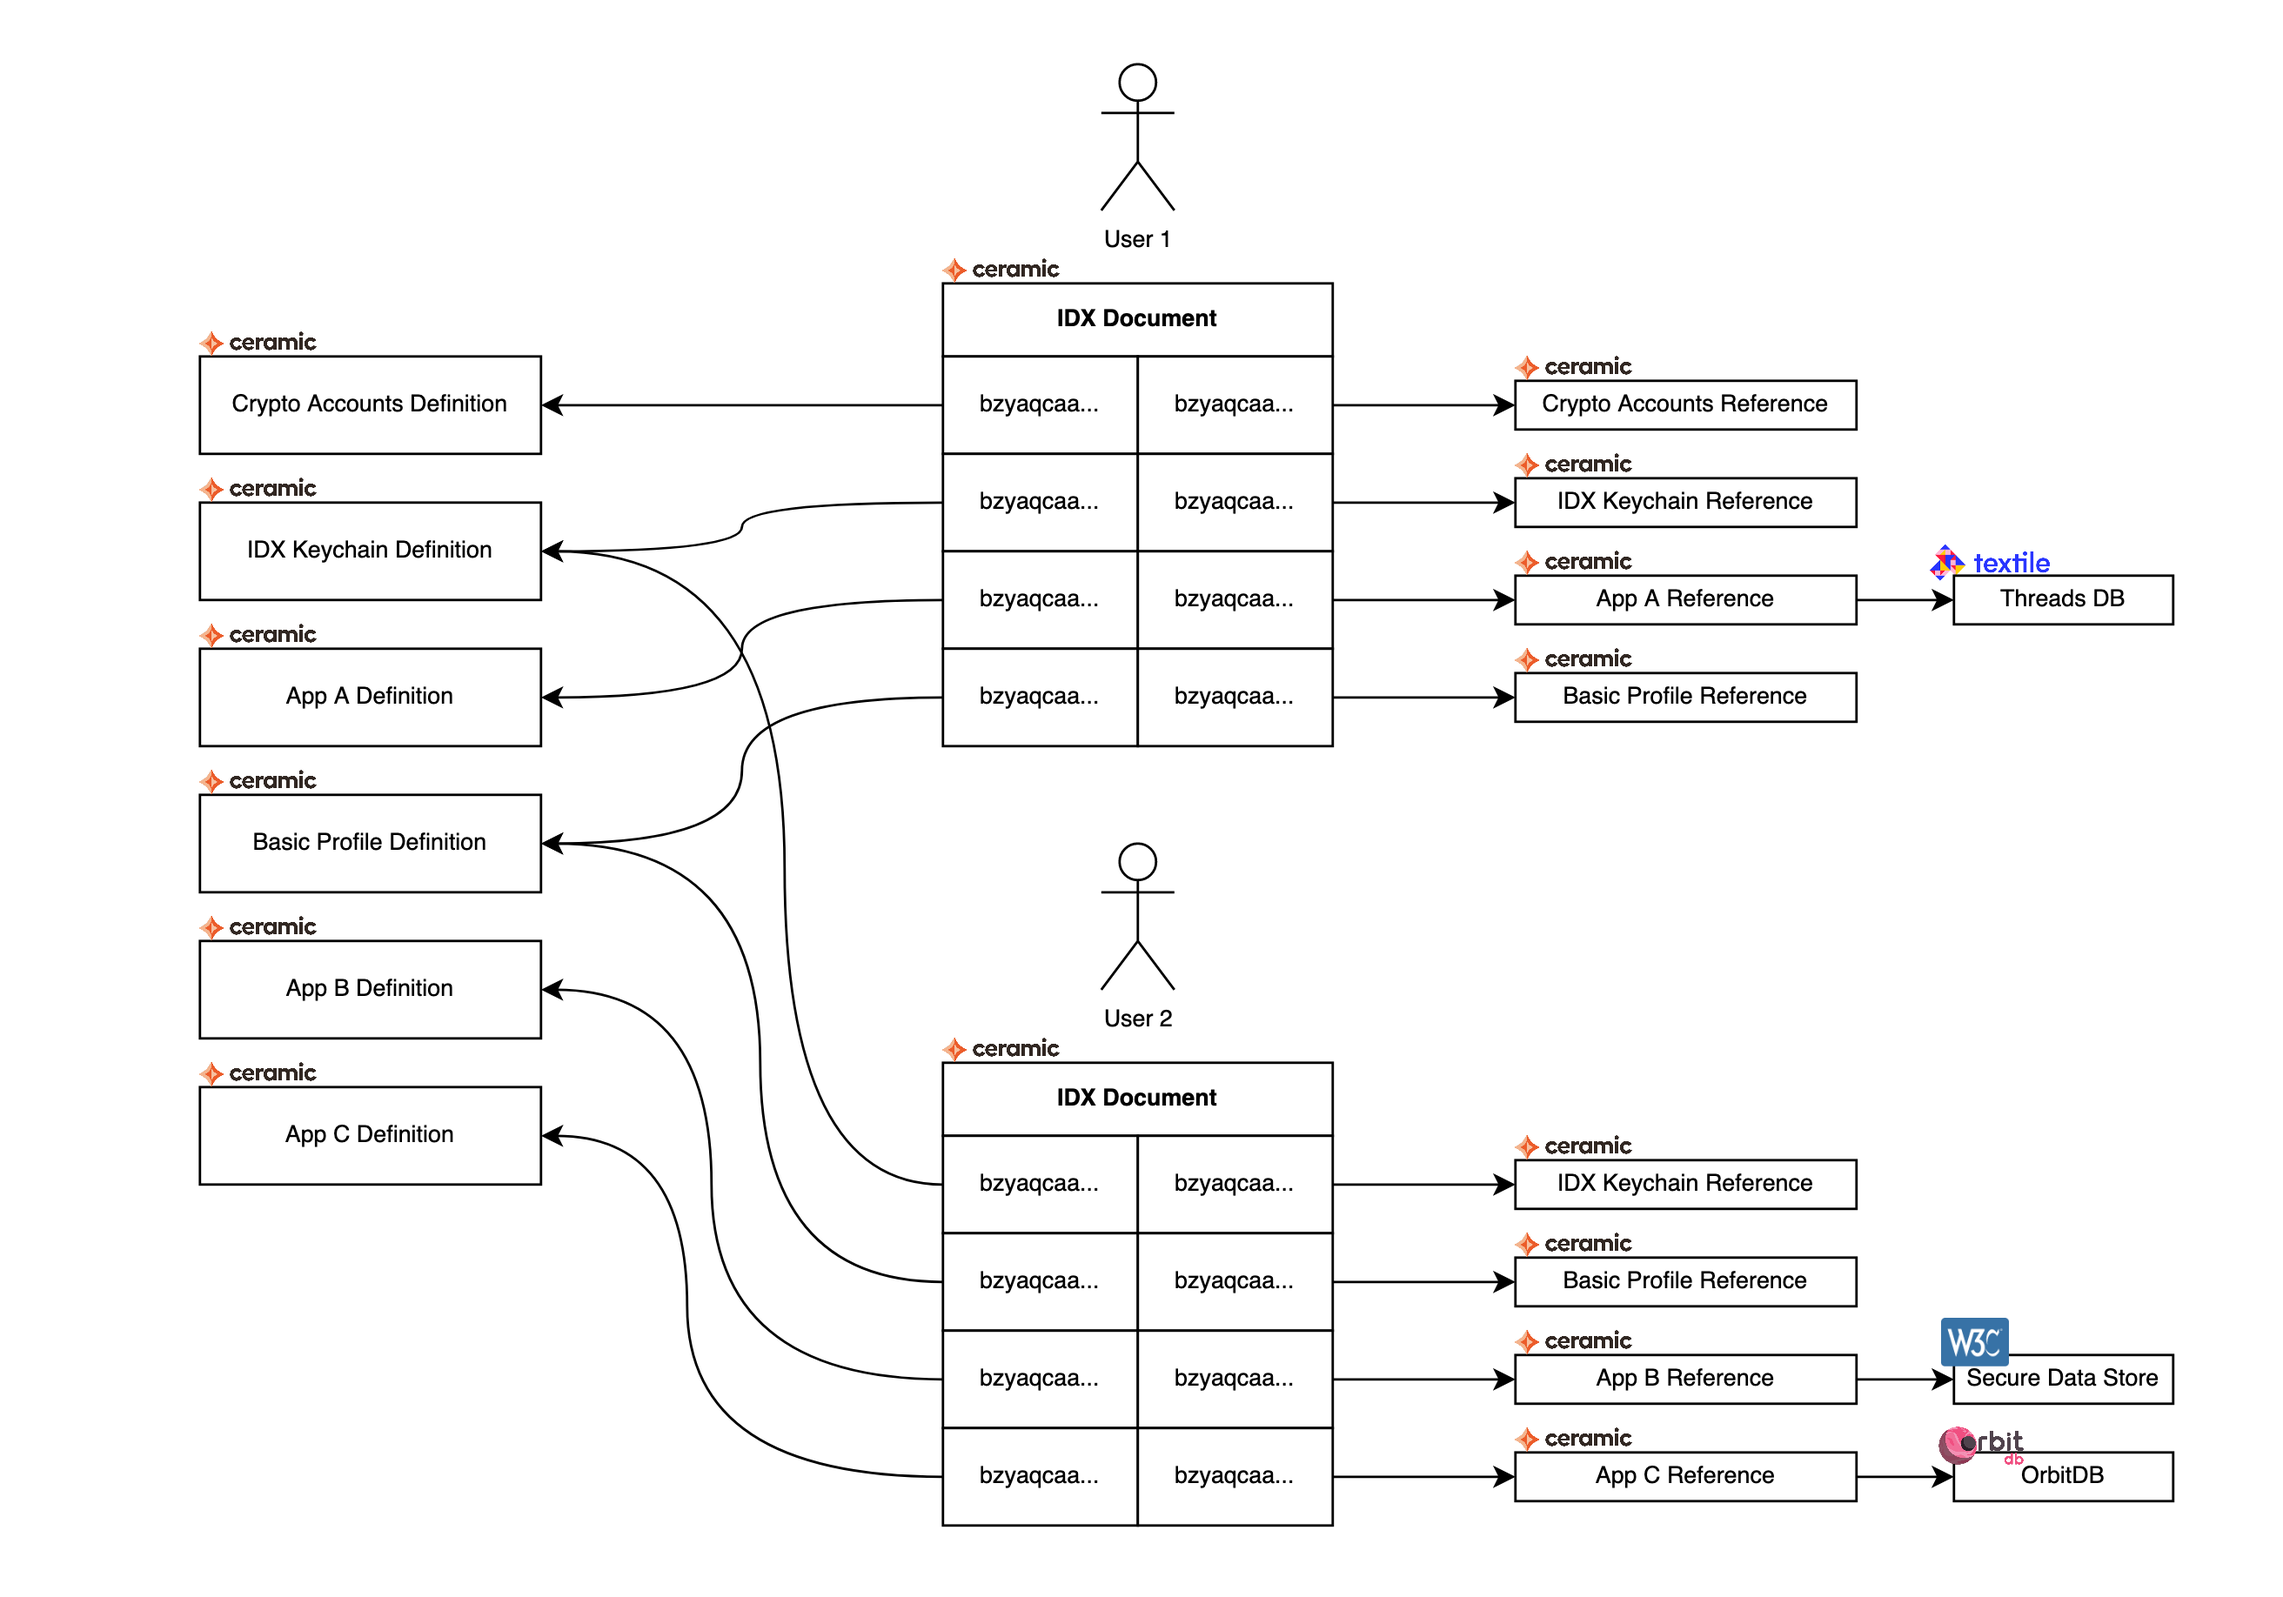
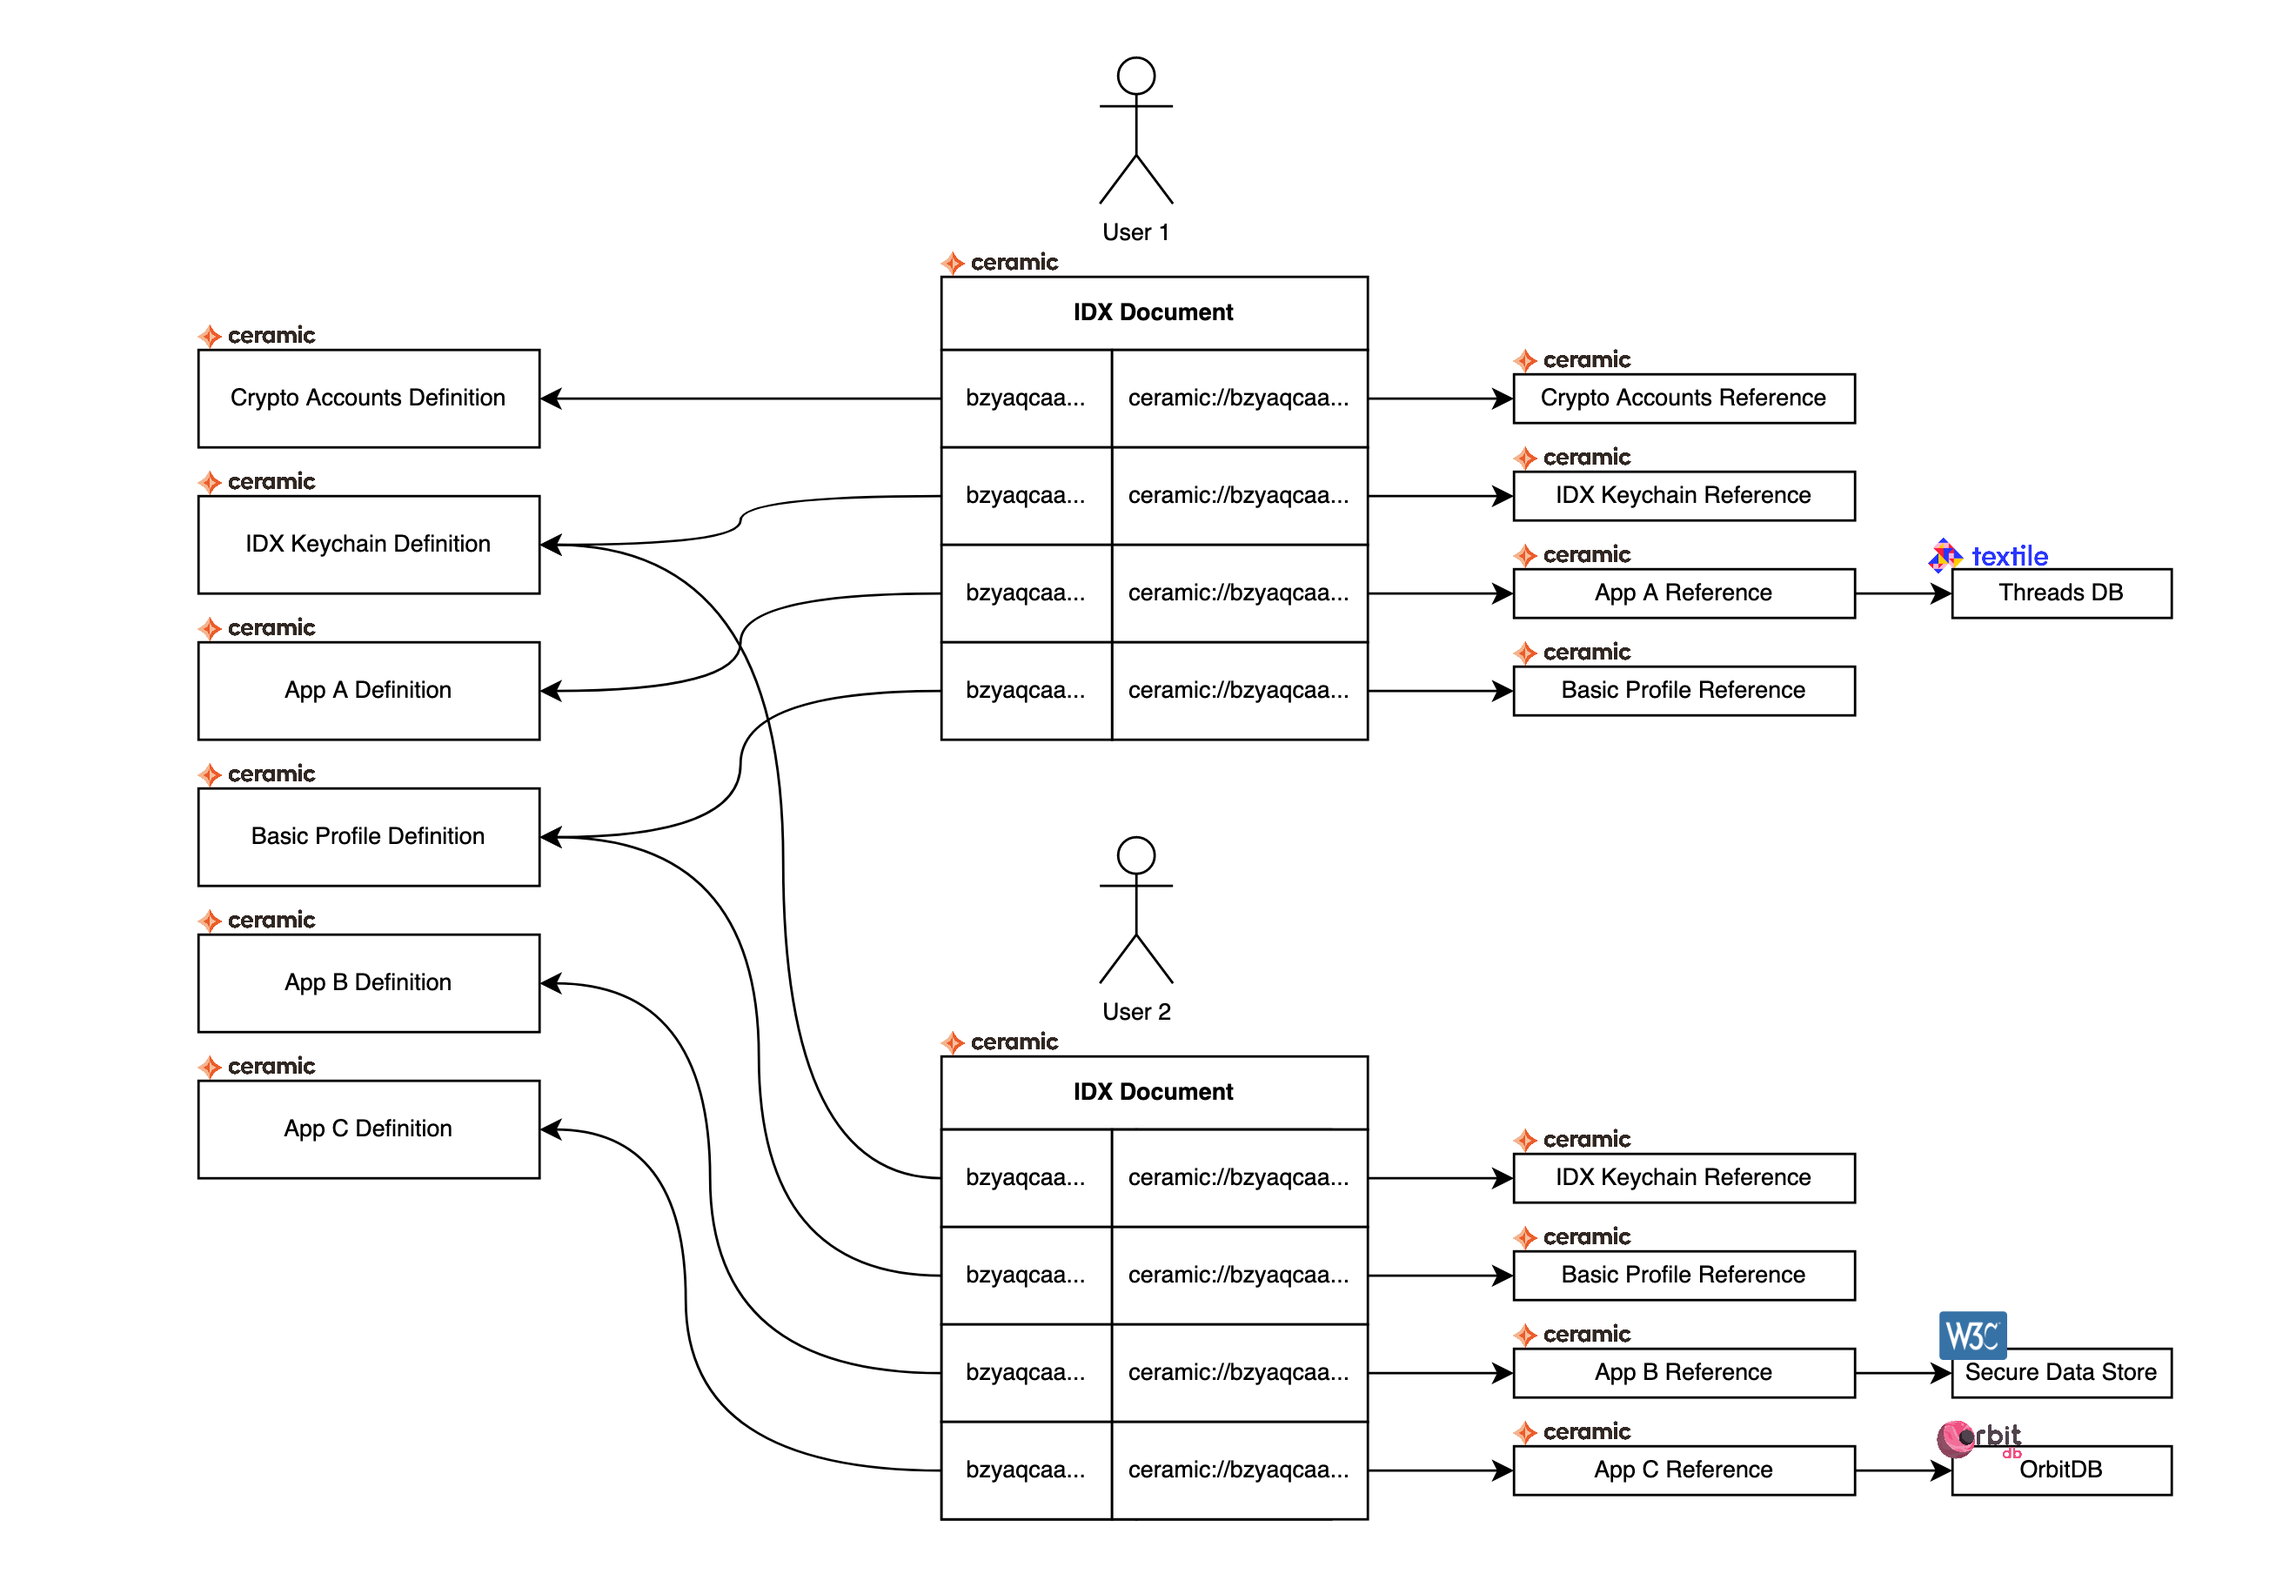
chore: more context about DocID formats

diff --git a/CIPs/CIP-11/CIP-11.md b/CIPs/CIP-11/CIP-11.md
@@ -55,9 +55,9 @@ The *definition-reference* pair can be stored publicly or encrypted. The former 
 
 ### IDX Document
 
-The IDX document simply consist of a map from strings to DocIDs. For public data sets the *key* in this map is the DocID of the *definition* document, and the *value* is the DocID of the *reference* document.
+The IDX document simply consist of a map from strings to DocIDs. For public data sets the *key* in this map is the DocID (without the prepended `ceramic://`) of the *definition* document, and the *value* is the DocID (with `ceramic://`) of the *reference* document.
 
-For encrypted data sets the *key* is simply a multibase (base36) encoded string of 24 random bytes. The *value* is the DocID of the *reference* document with content encryption. See the [Data Set Keychain Definition](#data-set-keychain-definition) section for more more details on how this works.
+For encrypted data sets the *key* is simply a multibase (base36) encoded string of 24 random bytes. The *value* is the DocID (with `ceramic://`) of the *reference* document with content encryption. See the [Data Set Keychain Definition](#data-set-keychain-definition) section for more more details on how this works.
 
 #### Schema
 
